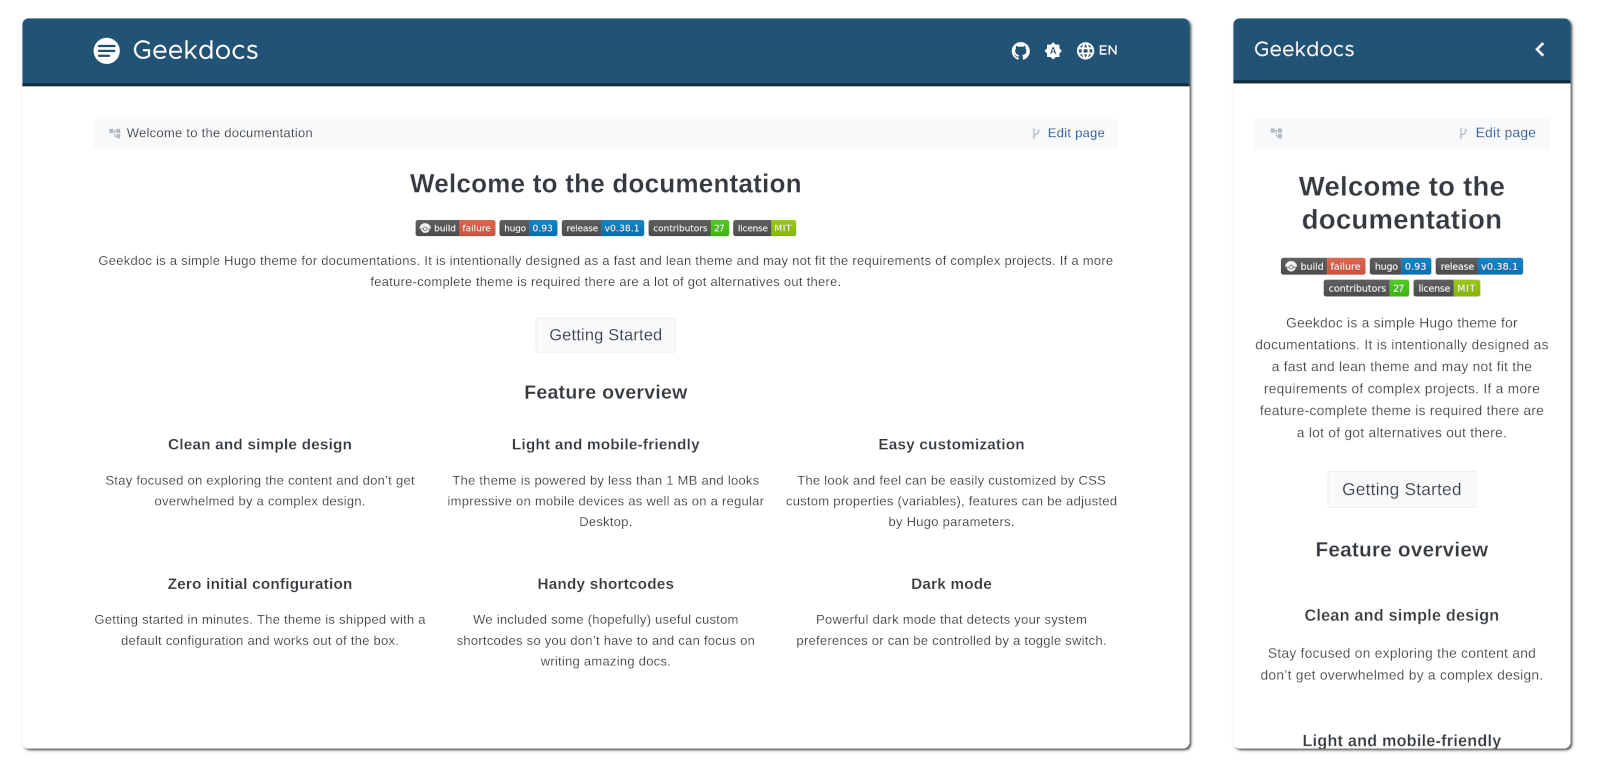
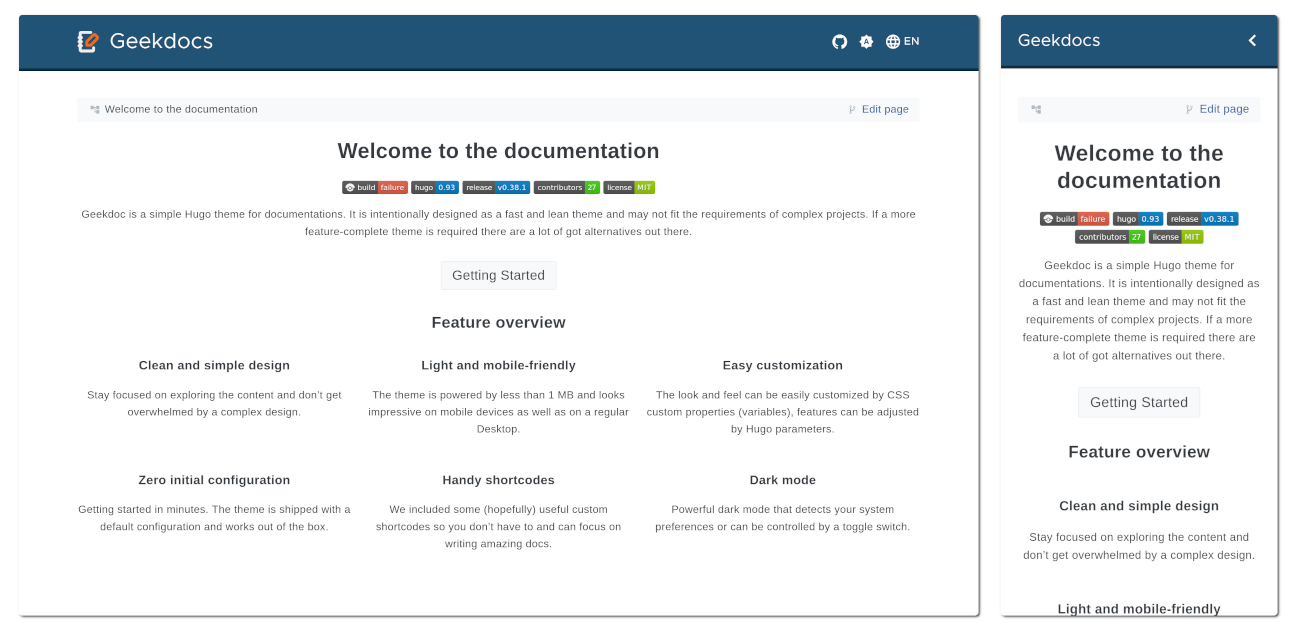
replace brand

diff --git a/webpack.config.js b/webpack.config.js
@@ -60,8 +60,8 @@ var config = {
     new WebpackFavicons({
       src: path.resolve("src", "static", "favicon", "favicon.svg"),
       path: "favicon/",
-      background: "#205375",
-      theme_color: "#205375",
+      background: "#efefef",
+      theme_color: "#efefef",
       icons: {
         android: { offset: 10 },
         appleIcon: { offset: 10 },

diff --git a/exampleSite/content/en/features/theming/_index.md b/exampleSite/content/en/features/theming/_index.md
@@ -53,9 +53,9 @@ If you want to add more Favicon formats you have to [overwrite](https://gohugo.i
 <link rel="icon" type="image/png" sizes="32x32" href="{{ "favicon/favicon-32x32.png" | relURL }}">
 <link rel="icon" type="image/png" sizes="16x16" href="{{ "favicon/favicon-16x16.png" | relURL }}">
 <link rel="manifest" href="{{ "favicon/site.webmanifest" | relURL }}">
-<link rel="mask-icon" href="{{ "favicon/safari-pinned-tab.svg" | relURL }}" color="#205375">
-<meta name="msapplication-TileColor" content="#205375">
-<meta name="theme-color" content="#205375">
+<link rel="mask-icon" href="{{ "favicon/safari-pinned-tab.svg" | relURL }}" color="#efefef">
+<meta name="msapplication-TileColor" content="#efefef">
+<meta name="theme-color" content="#efefef">
 ```
 
 Happy customizing!
